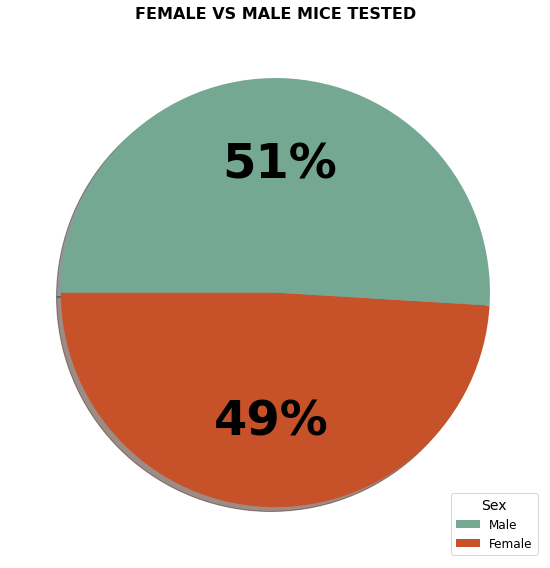
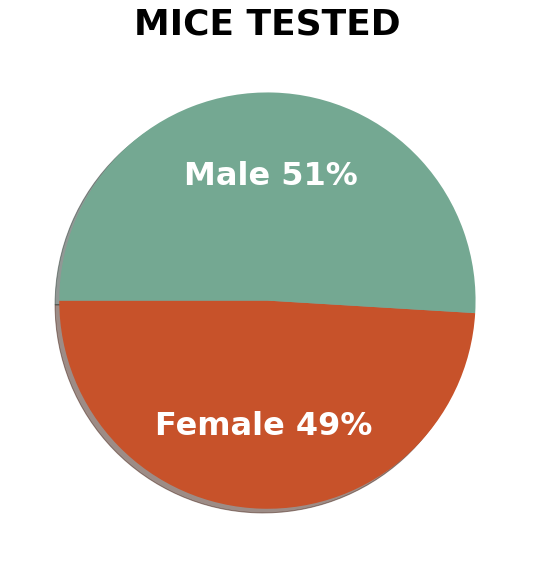
Added finished pie charts

diff --git a/README.md b/README.md
@@ -32,17 +32,21 @@ imagine scenarios where duplicates could accumulate and skew results. Therefore,
 only good practice but a crucial step in data preprocessing.
 
 ### Create Charts:
+* Step 1 - Create Bar Charts
 * Generate a bar plot using both Pandas's `DataFrame.plot()` and Matplotlib's `pyplot` that shows the total number of measurements taken for each treatment regimen throughout the course of the study.
+  
 * Pandas Bar Chart
 ![alt text](images/PandasBarChart2.png)
 * Pyplot Bar Chart
 ![alt text](images/PyplotBarChart2.png)
 
-
+* Step 2 - Create Pie Charts
 * Generate a pie plot using both Pandas's `DataFrame.plot()` and Matplotlib's `pyplot` that shows the distribution of female or male mice in the study.
+  
 * Pandas Pie Chart
 ![alt text](images/PandasPieChart2.png)
 * Pyplot Bar Chart
+![alt text](images/PyplotPieChart2.png)
 
 * Calculate the final tumor volume of each mouse across four of the most promising treatment regimens: Capomulin, Ramicane, Infubinol, and Ceftamin. Calculate the quartiles and IQR and quantitatively determine if there are any potential outliers across all four treatment regimens.
 
